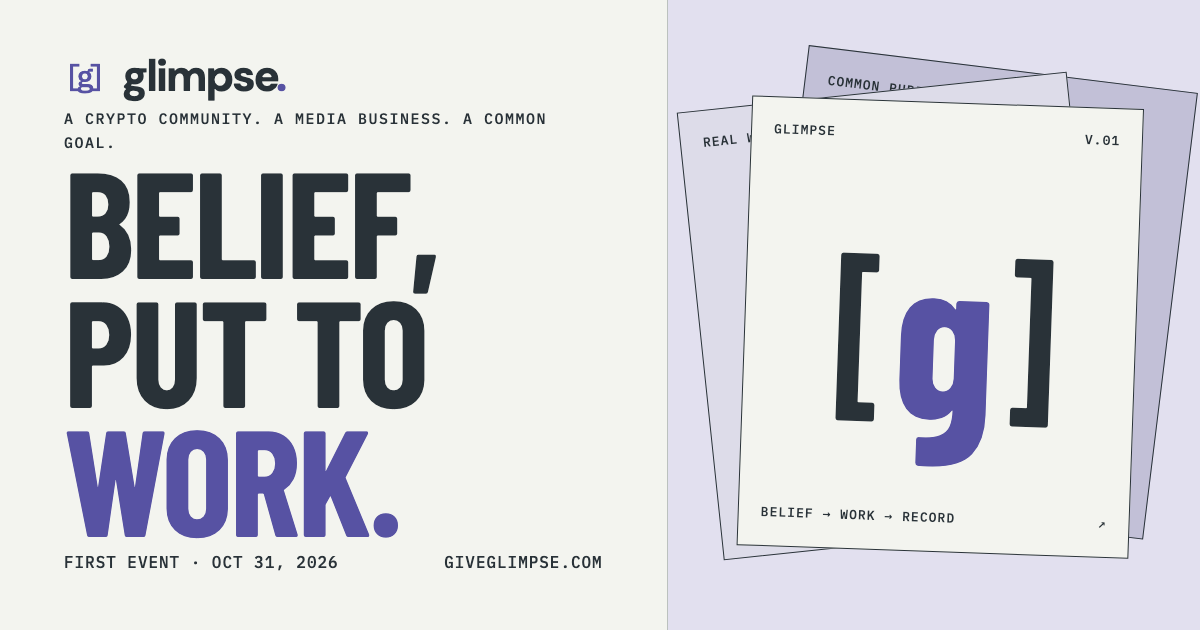
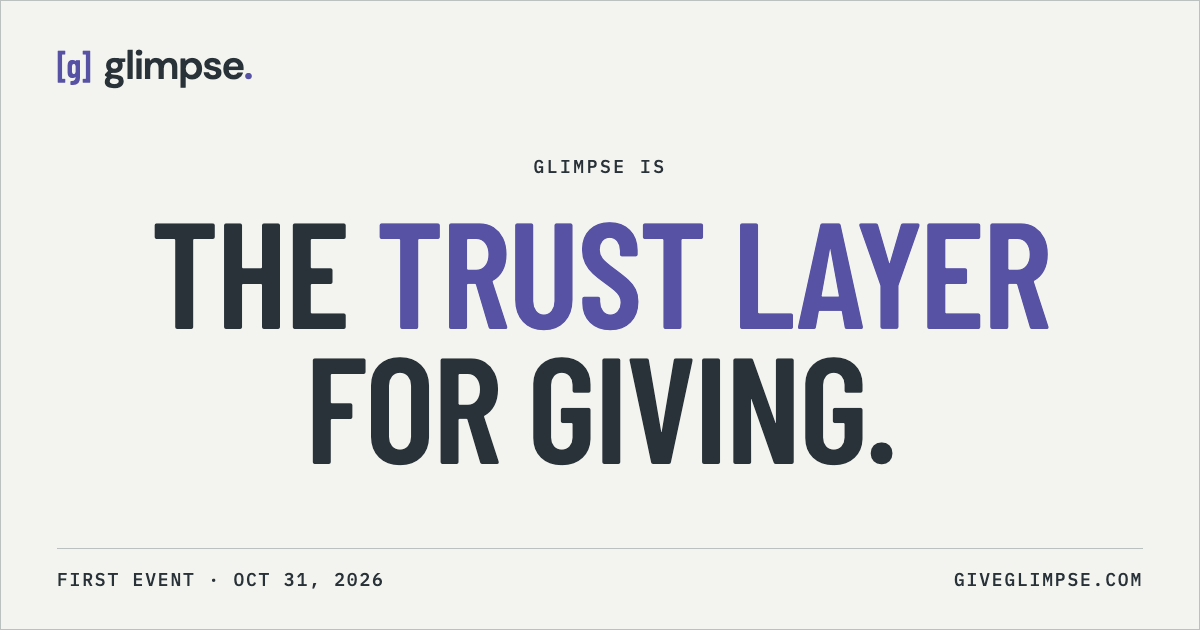
QA fixes and new share image
- 404: drop duplicate event link
- Privacy: replace stale Video section with the motion-setting note; fix capitalization
- Funding: curly apostrophes throughout
- Reduce motion now persists across pages for the tab session (sessionStorage)
- Community input link targets #community-input
- og.png redrawn to match the new centered hero

diff --git a/funding.html b/funding.html
@@ -4,6 +4,6 @@
 <a class="skip" href="#main">Skip to content</a>
 <header class="masthead"><a class="brand" href="./" aria-label="Glimpse home"><span class="brand-mark" aria-hidden="true">[g]</span>glimpse<span class="brand-period">.</span></a><nav aria-label="Main navigation"><a href="./#mission">Mission</a><a href="./#roadmap">Roadmap</a><a href="funding.html">$GIVE & funding</a></nav><button class="motion-toggle" type="button" aria-pressed="false" hidden>Reduce motion</button></header>
 <main id="main"><section class="subpage-hero section"><div class="kicker"><span>FUNDING & TRANSPARENCY</span><span>THREE MONEY PATHS, KEPT SEPARATE</span></div><h1>KNOW<br>THE <em>PATH.</em></h1><p class="large-copy">Creator fees are Derrick’s income. Advertising is company revenue. Individual contributions are intended for a named recipient or need.</p><nav class="subpage-nav" aria-label="Funding sections"><a href="#revenue">Fees and advertising ↓</a><a href="#contributions">Contributions ↓</a><a href="#treasury">Treasury ↓</a><a href="#contract">Contract ↓</a></nav></section>
-<section class="section funding-sections"><article id="revenue"><span class="eyebrow">01 / FOUNDER INCOME AND ADVERTISING</span><h2>THE BUSINESS<br>BEHIND<br><em>THE WORK.</em></h2><div><h3>Why a second token?</h3><p>We launched $GIVE because we could not direct the creator fees from our first token, $GLIMPSE, to Paid. The two tokens are separate; $GLIMPSE is no longer part of Glimpse.</p><h3>How $GIVE fees work</h3><p>A creator fee is a small amount set aside by the trading platform. Paid (<a href="https://x.com/UsePaid">@UsePaid</a>) converts $GIVE creator fees into dollars and pays Derrick through X Money:</p><dl class="facts-list money-path"><div><dt>1 · Trade</dt><dd>Someone buys or sells $GIVE on pump.fun. The platform sets aside a creator fee.</dd></div><div><dt>2 · Convert</dt><dd>Paid collects the fee, converts it to dollars, and posts each payout in public on its <a href="https://usepaid.app/payments">payments page</a>.</dd></div><div><dt>3 · Receive</dt><dd>The dollars land in Derrick's X Money account as his income.</dd></div><div><dt>4 · Spend</dt><dd>Derrick buys what the undertaking needs and posts the receipt.</dd></div></dl><p>The exact routing and any service deductions along the way will be published here once verified.</p><p>These fees are Derrick's personal income, not company revenue. $GIVE is not an investment and confers no rights.</p><h3>Local business advertising</h3><p>Glimpse plans to earn revenue from businesses advertising to the audience of its show and stories. Paid placements will be identified. No advertisers or revenue totals are claimed here.</p><p>Advertising revenue supports the company. No fixed future allocation or reinvestment percentage is promised.</p></div></article><article id="contributions"><span class="eyebrow">02 / INDIVIDUAL CONTRIBUTIONS</span><h2>A NEED<br>WITH A<br><em>NAMED PURPOSE.</em></h2><div><p>Individual contributions are intended for a named recipient or need, separate from company advertising revenue and Derrick’s creator-fee income. The amount, any fees, and delivery will be made clear while protecting private information.</p><p>Contributions are not open yet. Details will be revealed during the October 31 livestream.</p><a class="text-link" href="event-01.html#contributions">How to take part in the first event ↗</a></div></article><article id="treasury"><span class="eyebrow">03 / TREASURY & RELEASES</span><h2>OUR<br><em>HOLDING.</em></h2><div><div class="holding-stat"><strong>10<span>%</span></strong><p>of the $GIVE supply is held by Glimpse.</p></div><p class="holding-date">Reported by the founder · September 26, 2026</p><p>A treasury wallet address and supporting on-chain records have not been published here yet. They are needed to verify the holding independently. No lock or release policy is currently presented.</p></div></article><article id="contract"><span class="eyebrow">04 / THE OFFICIAL COIN ID</span><h2>ONE<br><em>ADDRESS.</em></h2><div><p>The only $GIVE contract address is the one on this page.</p><div class="address"><code>EoZVprU5NM1pBWqJszVQmSt7rQ7fLGPAsHUq75mjxb3z</code><button class="button copy-button" type="button" data-copy="EoZVprU5NM1pBWqJszVQmSt7rQ7fLGPAsHUq75mjxb3z">Copy address <span>↗</span></button></div><p class="copy-feedback" role="status" aria-live="polite"></p><a class="text-link" href="https://pump.fun/coin/EoZVprU5NM1pBWqJszVQmSt7rQ7fLGPAsHUq75mjxb3z">View on pump.fun ↗</a><p>Glimpse will never ask for your seed phrase or private keys. Use the official accounts below to check announcements and contribution details.</p><p>The official accounts are <a href="https://x.com/GiveGlimpse">@GiveGlimpse</a> and <a href="https://x.com/DerrickWKing">@DerrickWKing</a>.</p><p>Holder participation is explained in <a href="./#community-input">community input and decision-making</a>. Holding $GIVE does not create binding voting, ownership, or spending rights.</p></div></article></section></main>
+<section class="section funding-sections"><article id="revenue"><span class="eyebrow">01 / FOUNDER INCOME AND ADVERTISING</span><h2>THE BUSINESS<br>BEHIND<br><em>THE WORK.</em></h2><div><h3>Why a second token?</h3><p>We launched $GIVE because we could not direct the creator fees from our first token, $GLIMPSE, to Paid. The two tokens are separate; $GLIMPSE is no longer part of Glimpse.</p><h3>How $GIVE fees work</h3><p>A creator fee is a small amount set aside by the trading platform. Paid (<a href="https://x.com/UsePaid">@UsePaid</a>) converts $GIVE creator fees into dollars and pays Derrick through X Money:</p><dl class="facts-list money-path"><div><dt>1 · Trade</dt><dd>Someone buys or sells $GIVE on pump.fun. The platform sets aside a creator fee.</dd></div><div><dt>2 · Convert</dt><dd>Paid collects the fee, converts it to dollars, and posts each payout in public on its <a href="https://usepaid.app/payments">payments page</a>.</dd></div><div><dt>3 · Receive</dt><dd>The dollars land in Derrick’s X Money account as his income.</dd></div><div><dt>4 · Spend</dt><dd>Derrick buys what the undertaking needs and posts the receipt.</dd></div></dl><p>The exact routing and any service deductions along the way will be published here once verified.</p><p>These fees are Derrick’s personal income, not company revenue. $GIVE is not an investment and confers no rights.</p><h3>Local business advertising</h3><p>Glimpse plans to earn revenue from businesses advertising to the audience of its show and stories. Paid placements will be identified. No advertisers or revenue totals are claimed here.</p><p>Advertising revenue supports the company. No fixed future allocation or reinvestment percentage is promised.</p></div></article><article id="contributions"><span class="eyebrow">02 / INDIVIDUAL CONTRIBUTIONS</span><h2>A NEED<br>WITH A<br><em>NAMED PURPOSE.</em></h2><div><p>Individual contributions are intended for a named recipient or need, separate from company advertising revenue and Derrick’s creator-fee income. The amount, any fees, and delivery will be made clear while protecting private information.</p><p>Contributions are not open yet. Details will be revealed during the October 31 livestream.</p><a class="text-link" href="event-01.html#contributions">How to take part in the first event ↗</a></div></article><article id="treasury"><span class="eyebrow">03 / TREASURY & RELEASES</span><h2>OUR<br><em>HOLDING.</em></h2><div><div class="holding-stat"><strong>10<span>%</span></strong><p>of the $GIVE supply is held by Glimpse.</p></div><p class="holding-date">Reported by the founder · September 26, 2026</p><p>A treasury wallet address and supporting on-chain records have not been published here yet. They are needed to verify the holding independently. No lock or release policy is currently presented.</p></div></article><article id="contract"><span class="eyebrow">04 / THE OFFICIAL COIN ID</span><h2>ONE<br><em>ADDRESS.</em></h2><div><p>The only $GIVE contract address is the one on this page.</p><div class="address"><code>EoZVprU5NM1pBWqJszVQmSt7rQ7fLGPAsHUq75mjxb3z</code><button class="button copy-button" type="button" data-copy="EoZVprU5NM1pBWqJszVQmSt7rQ7fLGPAsHUq75mjxb3z">Copy address <span>↗</span></button></div><p class="copy-feedback" role="status" aria-live="polite"></p><a class="text-link" href="https://pump.fun/coin/EoZVprU5NM1pBWqJszVQmSt7rQ7fLGPAsHUq75mjxb3z">View on pump.fun ↗</a><p>Glimpse will never ask for your seed phrase or private keys. Use the official accounts below to check announcements and contribution details.</p><p>The official accounts are <a href="https://x.com/GiveGlimpse">@GiveGlimpse</a> and <a href="https://x.com/DerrickWKing">@DerrickWKing</a>.</p><p>Holder participation is explained in <a href="./#community-input">community input and decision-making</a>. Holding $GIVE does not create binding voting, ownership, or spending rights.</p></div></article></section></main>
 <footer><div class="footer-top"><a class="brand" href="./">glimpse.</a><p>A common goal. Work you can follow.</p><a href="#top">Back to top ↑</a></div><div class="footer-nav"><a href="event-01.html">Event details &amp; follow-through</a><a href="funding.html">Funding & treasury</a><a href="https://x.com/GiveGlimpse">@GiveGlimpse ↗</a><a href="https://x.com/DerrickWKing">@DerrickWKing ↗</a><a href="privacy/">Privacy</a><a href="terms/">Terms</a><a href="mailto:derrick@giveglimpse.com">Contact</a></div><p class="disclosure">Glimpse is not a nonprofit or 501(c)(3). Nothing here is tax-deductible. Fees from $GIVE are paid to the founder, Derrick Woepking, through X Money and are his income; he buys what is given himself. Neither $GLIMPSE nor $GIVE is an investment; neither confers rights. Paid and X Money are independent services. Glimpse is not affiliated with X Corp. Glimpse · Muscatine, Iowa.</p><p class="footer-note">No contributions are collected through this site.</p></footer>
 </body></html>

diff --git a/index.html b/index.html
@@ -64,7 +64,7 @@
 <p class="contribution-note">Individual contributions are not open yet. We plan to open them at this event with contribution details revealed during the livestream.</p><a class="text-link" href="event-01.html">October event details &amp; follow-through ↗</a></div></details>
 <details><summary><span class="month">NOV<span>—</span></span><span class="roadmap-title">Make room at the table.<small>Thanksgiving · November 2026</small></span><span class="roadmap-status">THE VISION</span></summary><div class="roadmap-detail"><p>Bring the community together around practical help at Thanksgiving. The aim is to ease some of the pressure of the season and give people a reason to feel supported.</p><p>We'll shape the undertaking around the need and the local people and businesses who can help.</p></div></details>
 <details><summary><span class="month">DEC<span>—</span></span><span class="roadmap-title">Care for the people who teach.<small>Teacher appreciation · December 2026</small></span><span class="roadmap-status">THE VISION</span></summary><div class="roadmap-detail"><p>Turn appreciation for teachers and public school employees into something useful. Bring local businesses and the community together to recognize the people who spend their days supporting others.</p><p>Listen to what would make a difference, then build the undertaking around that.</p></div></details>
-<details><summary><span class="month year">JAN<span>2027</span></span><span class="roadmap-title">Choose the next useful thing.<small>Community direction · January 2027</small></span><span class="roadmap-status">SHAPE WHAT'S NEXT</span></summary><div class="roadmap-detail"><p>Take what we learn and invite holders to help shape the next focus: continue supporting public school employees, address another need, or combine the two.</p><p>The goal stays the same: find where our community can put a dollar to its most effective use.</p><a class="text-link" href="#participate">How community input will work ↓</a></div></details></div></section><section class="participate section" id="participate" data-chapter="participate"><div class="kicker"><span>04 / GET INVOLVED</span><span>GLIMPSE / OPEN RECORD</span></div>
+<details><summary><span class="month year">JAN<span>2027</span></span><span class="roadmap-title">Choose the next useful thing.<small>Community direction · January 2027</small></span><span class="roadmap-status">SHAPE WHAT'S NEXT</span></summary><div class="roadmap-detail"><p>Take what we learn and invite holders to help shape the next focus: continue supporting public school employees, address another need, or combine the two.</p><p>The goal stays the same: find where our community can put a dollar to its most effective use.</p><a class="text-link" href="#community-input">How community input will work ↓</a></div></details></div></section><section class="participate section" id="participate" data-chapter="participate"><div class="kicker"><span>04 / GET INVOLVED</span><span>GLIMPSE / OPEN RECORD</span></div>
 <div class="participate-heading"><h2>THERE'S A ROLE<br><em>FOR YOU.</em></h2><p class="large-copy">Bring your ideas, your business, or your attention. Help choose and carry out the next useful thing.</p></div><div class="participate-grid"><div><h3>Start a<br>conversation.</h3><p>Know a need we should understand or a local business we should meet? Share it with us.</p><a class="button" href="https://x.com/GiveGlimpse">Join the conversation <span>↗</span></a><p class="contact-note">Business advertising inquiries<br><a href="mailto:derrick@giveglimpse.com">derrick@giveglimpse.com</a></p></div><div class="decision-record"><span class="eyebrow">DECISIONS / IN THE OPEN</span><details open id="community-input"><summary>What role will holders have?</summary><p>We intend for holder input to help shape which needs Glimpse takes on. Eligibility, voting methods, and how input is weighed remain open as we seek regulatory clarity and legal guidance. No binding voting or ownership rights are promised.</p></details><details><summary>Who makes the final decision?</summary><p>Derrick retains final responsibility for company spending and execution. The aim is to publish community input, the chosen direction, and the reasons behind it.</p></details><details><summary>Will Glimpse become a nonprofit?</summary><p>Creating a nonprofit or partnering with an existing one are options being explored. Neither route is confirmed. Glimpse is currently a media business.</p></details><details><summary>What will “effective” mean?</summary><p>We will need to show the full cost, what was delivered, whether it met the intended need, and what we learned. “Most effective” is the ambition, not a verified ranking.</p></details></div></div></section></main>
 <footer><div class="footer-top"><a class="brand" href="./">glimpse.</a><p>A common goal. Work you can follow.</p><a href="#top">Back to top ↑</a></div><div class="footer-nav"><a href="event-01.html">Event details &amp; follow-through</a><a href="funding.html">Funding & treasury</a><a href="https://x.com/GiveGlimpse">@GiveGlimpse ↗</a><a href="https://x.com/DerrickWKing">@DerrickWKing ↗</a><a href="privacy/">Privacy</a><a href="terms/">Terms</a><a href="mailto:derrick@giveglimpse.com">Contact</a></div><p class="disclosure">Glimpse is not a nonprofit or 501(c)(3). Nothing here is tax-deductible. Fees from $GIVE are paid to the founder, Derrick Woepking, through X Money and are his income; he buys what is given himself. Neither $GLIMPSE nor $GIVE is an investment; neither confers rights. Paid and X Money are independent services. Glimpse is not affiliated with X Corp. Glimpse · Muscatine, Iowa.</p><p class="footer-note">No contributions are collected through this site.</p></footer>
 </body></html>

diff --git a/privacy/index.html b/privacy/index.html
@@ -6,9 +6,9 @@
 <main id="main"><section class="subpage-hero section"><div class="kicker"><span>PRIVACY</span><span>UPDATED SEPTEMBER 26, 2026</span></div><h1>WHAT THIS SITE<br><em>COLLECTS.</em></h1><p class="large-copy">Almost nothing.</p></section>
 <section class="section legal"><h2>This site</h2><p>giveglimpse.com is a static site. It has no accounts, no forms, no cookies set by Glimpse, and no analytics script. Nothing typed here is stored, because there is nowhere to type.</p><p>The site is hosted on GitHub Pages, which keeps standard server logs (IP address, browser, pages requested) under <a href="https://docs.github.com/en/site-policy/privacy-policies/github-general-privacy-statement">GitHub's privacy statement</a>. Fonts load from Google Fonts, which receives the request under <a href="https://policies.google.com/privacy">Google's privacy policy</a>.</p>
 <h2>Links to other services</h2><p>Pages link to X, pump.fun, Wikimedia Commons, and Paid. Following a link puts the visitor under that service's terms and privacy policy, not this one. Nothing from those services runs on this site until a link is clicked.</p>
-<h2>Video</h2><p>Any video on this site is hosted here and served directly. No viewing data is collected.</p>
+<h2>Motion setting</h2><p>If you choose Reduce motion, your browser remembers that choice until you close the tab. It is stored only in your browser and never sent anywhere.</p>
 <h2>Email</h2><p>Messages sent to derrick@giveglimpse.com are kept as ordinary email and used only to reply.</p>
-<h2>Recipients and the record</h2><p>The public record describes each undertaking, the spending, and what was delivered. It does not identify the people who receive help. Photos never show a recipient's face. Anyone named in the record (a participating business, for example) can ask for a correction at any time by email; Corrections will be explained. Information may be removed or redacted to protect private information.</p>
+<h2>Recipients and the record</h2><p>The public record describes each undertaking, the spending, and what was delivered. It does not identify the people who receive help. Photos never show a recipient's face. Anyone named in the record (a participating business, for example) can ask for a correction at any time by email; corrections will be explained. Information may be removed or redacted to protect private information.</p>
 <h2>Changes</h2><p>This page changes when the site changes. The date at the top is the record.</p></section></main>
 <footer><div class="footer-top"><a class="brand" href="../">glimpse.</a><p>A common goal. Work you can follow.</p><a href="#top">Back to top ↑</a></div><div class="footer-nav"><a href="../event-01.html">Event details &amp; follow-through</a><a href="../funding.html">Funding & treasury</a><a href="https://x.com/GiveGlimpse">@GiveGlimpse ↗</a><a href="https://x.com/DerrickWKing">@DerrickWKing ↗</a><a href="../privacy/">Privacy</a><a href="../terms/">Terms</a><a href="mailto:derrick@giveglimpse.com">Contact</a></div><p class="disclosure">Glimpse is not a nonprofit or 501(c)(3). Nothing here is tax-deductible. Fees from $GIVE are paid to the founder, Derrick Woepking, through X Money and are his income; he buys what is given himself. Neither $GLIMPSE nor $GIVE is an investment; neither confers rights. Paid and X Money are independent services. Glimpse is not affiliated with X Corp. Glimpse · Muscatine, Iowa.</p><p class="footer-note">No contributions are collected through this site.</p></footer>
 </body></html>

diff --git a/404.html b/404.html
@@ -3,6 +3,6 @@
 <body class="page-legal" id="top">
 <a class="skip" href="#main">Skip to content</a>
 <header class="masthead"><a class="brand" href="/" aria-label="Glimpse home"><span class="brand-mark" aria-hidden="true">[g]</span>glimpse<span class="brand-period">.</span></a><nav aria-label="Main navigation"><a href="/#mission">Mission</a><a href="/#roadmap">Roadmap</a><a href="/funding.html">$GIVE & funding</a></nav><button class="motion-toggle" type="button" aria-pressed="false" hidden>Reduce motion</button></header>
-<main id="main"><section class="subpage-hero section"><div class="kicker"><span>404</span><span>PAGE NOT FOUND</span></div><h1>NOTHING<br><em>HERE.</em></h1><p class="large-copy">That page does not exist, or it moved.</p><nav class="subpage-nav" aria-label="Where to go"><a href="/">Home ↗</a><a href="/#mission">The mission ↗</a><a href="/event-01.html">Event 01 ↗</a><a href="/event-01.html">Glimpse 001 ↗</a><a href="/funding.html">$GIVE &amp; funding ↗</a></nav></section></main>
+<main id="main"><section class="subpage-hero section"><div class="kicker"><span>404</span><span>PAGE NOT FOUND</span></div><h1>NOTHING<br><em>HERE.</em></h1><p class="large-copy">That page does not exist, or it moved.</p><nav class="subpage-nav" aria-label="Where to go"><a href="/">Home ↗</a><a href="/#mission">The mission ↗</a><a href="/event-01.html">Glimpse 001 ↗</a><a href="/funding.html">$GIVE &amp; funding ↗</a></nav></section></main>
 <footer><div class="footer-top"><a class="brand" href="/">glimpse.</a><p>A common goal. Work you can follow.</p><a href="#top">Back to top ↑</a></div><div class="footer-nav"><a href="/event-01.html">Event details &amp; follow-through</a><a href="/funding.html">Funding & treasury</a><a href="https://x.com/GiveGlimpse">@GiveGlimpse ↗</a><a href="https://x.com/DerrickWKing">@DerrickWKing ↗</a><a href="/privacy/">Privacy</a><a href="/terms/">Terms</a><a href="mailto:derrick@giveglimpse.com">Contact</a></div><p class="disclosure">Glimpse is not a nonprofit or 501(c)(3). Nothing here is tax-deductible. Fees from $GIVE are paid to the founder, Derrick Woepking, through X Money and are his income; he buys what is given himself. Neither $GLIMPSE nor $GIVE is an investment; neither confers rights. Paid and X Money are independent services. Glimpse is not affiliated with X Corp. Glimpse · Muscatine, Iowa.</p><p class="footer-note">No contributions are collected through this site.</p></footer>
 </body></html>

diff --git a/script.js b/script.js
@@ -4,6 +4,7 @@
  const mediaPreference = window.matchMedia('(prefers-reduced-motion: reduce)');
  if (!mediaPreference.addEventListener) mediaPreference.addEventListener = (type, fn) => mediaPreference.addListener(fn);
  let manualReduced = false;
+ try { manualReduced = sessionStorage.getItem('glimpse-reduce-motion') === '1'; } catch {}
  const motionToggle = document.querySelector('.motion-toggle') || document.createElement('button');
  function updateMotion() {
   const reduced = manualReduced || mediaPreference.matches;
@@ -15,7 +16,11 @@
  }
  if (motionToggle.isConnected) motionToggle.hidden = false;
  updateMotion();
- motionToggle.addEventListener('click', () => {manualReduced = !manualReduced; updateMotion();});
+ motionToggle.addEventListener('click', () => {
+  manualReduced = !manualReduced;
+  try { sessionStorage.setItem('glimpse-reduce-motion', manualReduced ? '1' : '0'); } catch {}
+  updateMotion();
+ });
  mediaPreference.addEventListener('change', updateMotion);
 
  /* Principles use one stable record. Controls choose the point of focus. */
